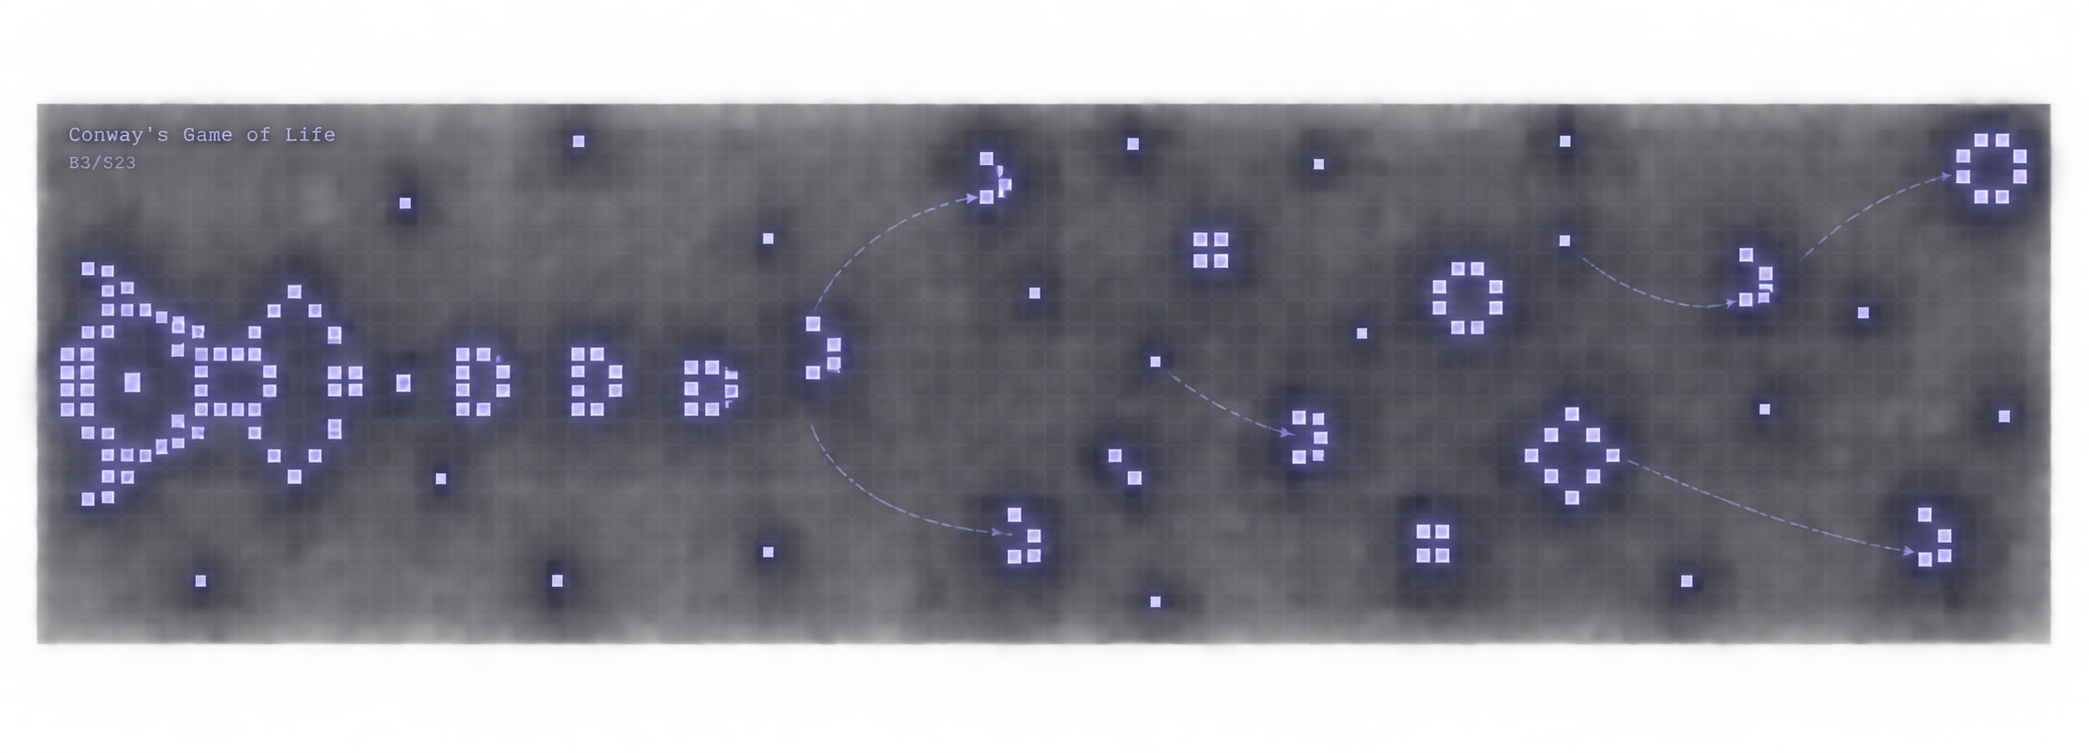
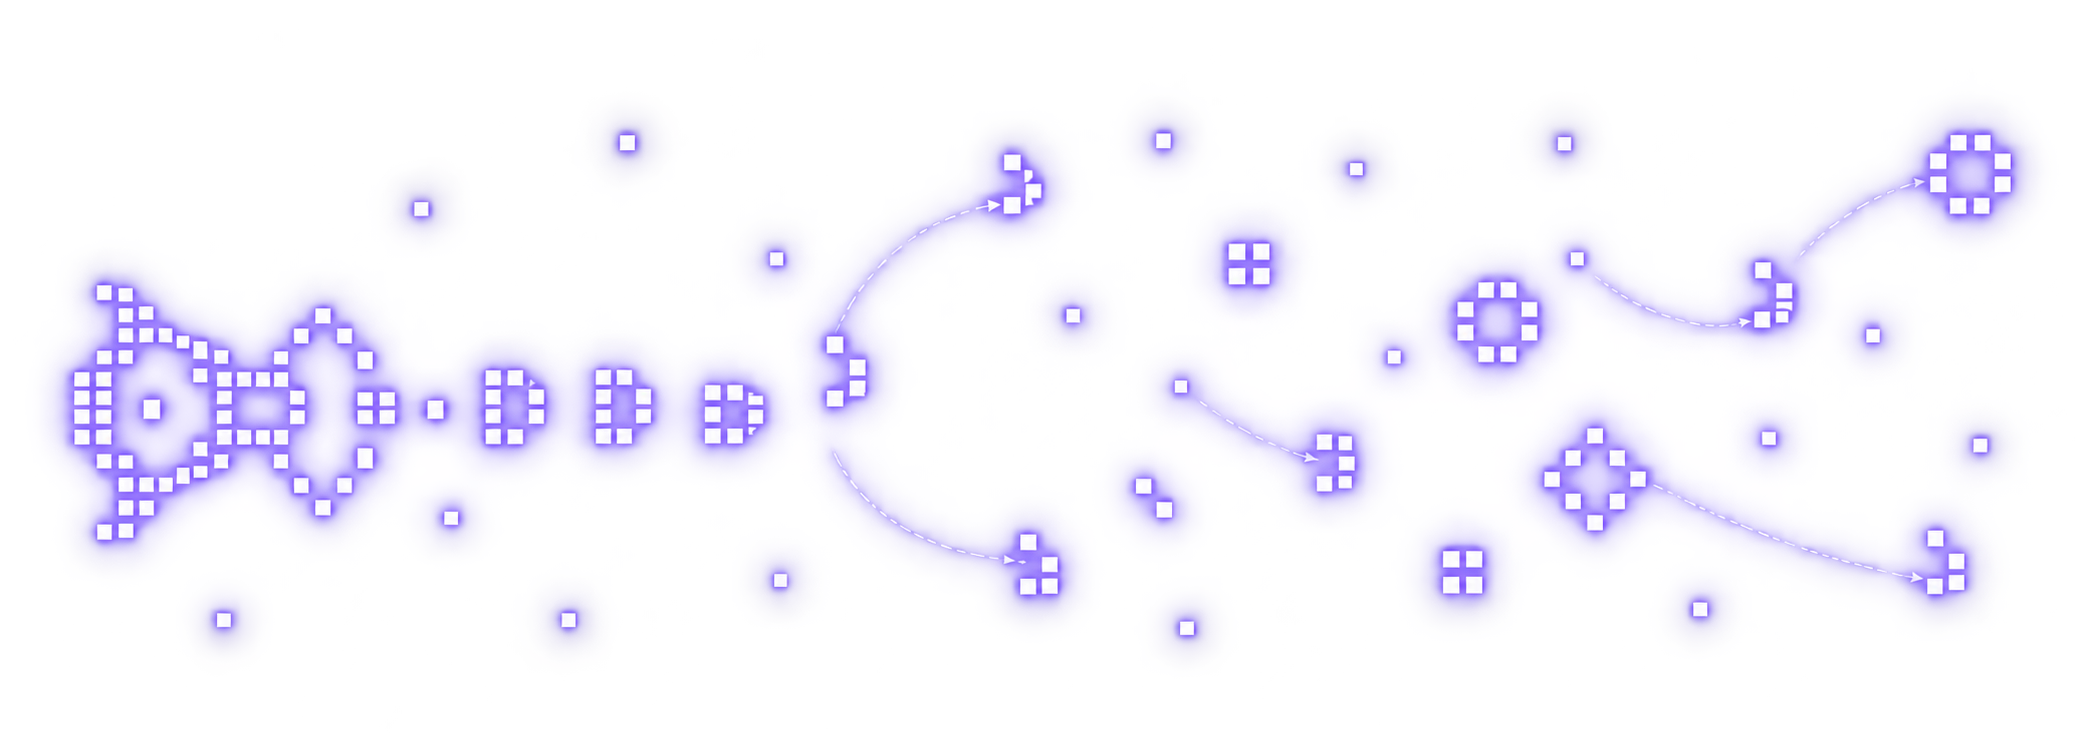
Refine program matrix PNG placement

diff --git a/AGENTS/memory/lessons-learned.md b/AGENTS/memory/lessons-learned.md
@@ -5,6 +5,8 @@
 | ID | Дата | Статус | Цель | Артефакты | Заметки |
 | :-- | :-- | :-- | :-- | :-- | :-- |
 
+| CX-080 | 2026-09-10 | DONE | Довести PNG-карточки матрицы программ | `Публичный сайт/index.md`, `Публичный сайт/assets/program-cards/cs-03.png`, `_quartz/quartz/styles/custom.scss` | `PHY-02`, `CS-02` и `CS-03` получили raster-cover режим, чтобы иллюстрации занимали всю карточку; `cs-03.png` заменён новым пользовательским PNG. Градиент песочницы Python приведён к общему тёмно-фиолетовому стилю карточек без `tertiary`/зелёного оттенка. |
+
 | CX-079 | 2026-09-10 | DONE | Подключить PNG-иллюстрации к матрице программ на главной | `Публичный сайт/index.md`, `Публичный сайт/assets/program-cards`, `_quartz/quartz/styles/custom.scss` | Физика и информатика в матрице используют прозрачные PNG `phy-01..03` и `cs-01..03`; `PHY-03-alt.png` не подключался. Математика осталась на SVG-масках. Пути к PNG держать в lowercase, потому что Quartz публикует ассеты в нижнем регистре. |
 
 | CX-078 | 2026-09-09 | DONE | Переформатировать программы обучения без таблиц и inline-разборов | `Публичный сайт/_Программы обучения`, `Публичный сайт/Предметы/Математика/Тренировочные задания` | Программы математики, физики и информатики оформлены как модульные нумерованные списки; экзаменационные разборы вынесены в открытые `warning` callout-блоки в конце. В математике добавлены кликабельные заглушки тренировочных заданий по темам. В информатике вместо общей ссылки на `Истинный фундамент` развернуты конкретные уроки. |
@@ -219,6 +221,7 @@
 - **2026-08-30**: Хранилище `Hopes and Dreams` очищено под публичный Quartz-сайт: личные разделы `Анкетки тестики`, `Надежда`, `Потенциальные саммари видео`, `Репетиторство`, корневые `_Resours` и `Excalidraw` перенесены в соседнее Obsidian-хранилище `E:\Камень\Abomination`; агентские инструкции `AGENTS/` и `AGENTS.md`, а также Obsidian-плагины скопированы туда. В публичном сайте оставлять только `Публичный сайт`, Quartz/runtime и служебные файлы; сиротские публичные вложения сложены в `Abomination/_Resours/Сиротские вложения публичного сайта`.
 - **2026-08-31**: На главной Quartz блок `Программы обучения` — матрица `предмет × уровень` со строками `Физика`, `Математика`, `Информатика` и отдельной широкой `Песочницей Python`. Все девять схем лежат отдельными SVG в `Публичный сайт/assets/program-cards` и подключаются как CSS-маски; математические `math-*.svg` адаптированы из пользовательских исходников без изменения геометрии кривых и осей и используют одинаковое тонкое затухание по четырём краям, информатика использует `cs-*.svg`. Названия идут по столбцам `Базовый набор` → `Джентельменский набор` → `Звездный набор`, фон на hover не перемещается; название песочницы набрано `var(--codeFont)`, линия находится только под первой `П`.
 - **2026-09-10**: В матрице программ на главной физика и информатика перешли с SVG-масок на прозрачные PNG: `phy-01..03.png` и `cs-01..03.png` в `Публичный сайт/assets/program-cards`. Математические карточки остаются SVG-масками. Новые asset URL писать lowercase, чтобы совпадать с output Quartz/GitHub Pages.
+- **2026-09-10**: Для растровых карточек матрицы можно точечно добавлять класс `.home-program-cover-visual`, если прозрачный PNG должен заполнять всю карточку как фон, а не сохранять полную картинку через `contain`. Сейчас это включено для `PHY-02`, `CS-02`, `CS-03`.
 - **2026-08-31**: Ширину `.home-program-card` держать `width: 100%; max-width: none`, чтобы матрица программ совпадала с шириной домашнего графа в `.home-knowledge-graph`. Иконку `.global-graph-icon` на графе надо принудительно выводить через inline SVG (`mask-image: none`, `svg display: block`), иначе CSS mask из `@quartz-themes/core` может визуально дублировать/размазывать значок.
 - **2026-09-07**: В публичном Quartz explorer клик по названию папки должен раскрывать/сворачивать папку, как стрелка: держать `folderClickBehavior: collapse`. Названия папок в левом проводнике должны оставаться серыми (`var(--darkgray)`), а не фиолетовыми accent-link.
 - **2026-09-07**: В `Публичный сайт/Предметы` физические и видимые названия предметов стандартизированы: `Физика`, `Информатика`, `Математика`. Не возвращать старые папки-никнеймы `Шизончик`, `Инфушечка`, `Матанчик`. Математическая `Теория` должна публиковаться на сайте; не добавлять ее обратно в `ignorePatterns`.

diff --git a/Публичный сайт/index.md b/Публичный сайт/index.md
@@ -49,7 +49,7 @@ title: Hopes and Dreams
         <span class="home-program-arrow" aria-hidden="true">↗</span>
       </a>
       <a class="home-program-route home-program-physics home-program-level-gentleman" href="./_программы-обучения/физика/джентельменский-набор-(11-класс-егэ,-до-80-баллов)">
-        <span class="home-program-visual home-program-image-visual home-program-raster-visual" style="--home-program-image: url('./assets/program-cards/phy-02.png')" aria-hidden="true"></span>
+        <span class="home-program-visual home-program-image-visual home-program-raster-visual home-program-cover-visual" style="--home-program-image: url('./assets/program-cards/phy-02.png')" aria-hidden="true"></span>
         <span class="home-program-code">PHY / 02</span>
         <strong>Джентельменский набор</strong>
         <span class="home-program-arrow" aria-hidden="true">↗</span>
@@ -87,13 +87,13 @@ title: Hopes and Dreams
         <span class="home-program-arrow" aria-hidden="true">↗</span>
       </a>
       <a class="home-program-route home-program-informatics home-program-level-gentleman" href="./_программы-обучения/информатика/джентельменский-набор-(11-класс-егэ,-до-80-баллов)">
-        <span class="home-program-visual home-program-image-visual home-program-raster-visual" style="--home-program-image: url('./assets/program-cards/cs-02.png')" aria-hidden="true"></span>
+        <span class="home-program-visual home-program-image-visual home-program-raster-visual home-program-cover-visual" style="--home-program-image: url('./assets/program-cards/cs-02.png')" aria-hidden="true"></span>
         <span class="home-program-code">CS / 02</span>
         <strong>Джентельменский набор</strong>
         <span class="home-program-arrow" aria-hidden="true">↗</span>
       </a>
       <a class="home-program-route home-program-informatics home-program-level-star" href="./_программы-обучения/информатика/звездный-набор-(11-класс-егэ,-100-баллов)">
-        <span class="home-program-visual home-program-image-visual home-program-raster-visual" style="--home-program-image: url('./assets/program-cards/cs-03.png')" aria-hidden="true"></span>
+        <span class="home-program-visual home-program-image-visual home-program-raster-visual home-program-cover-visual" style="--home-program-image: url('./assets/program-cards/cs-03.png')" aria-hidden="true"></span>
         <span class="home-program-code">CS / 03</span>
         <strong>Звездный набор</strong>
         <span class="home-program-arrow" aria-hidden="true">↗</span>
